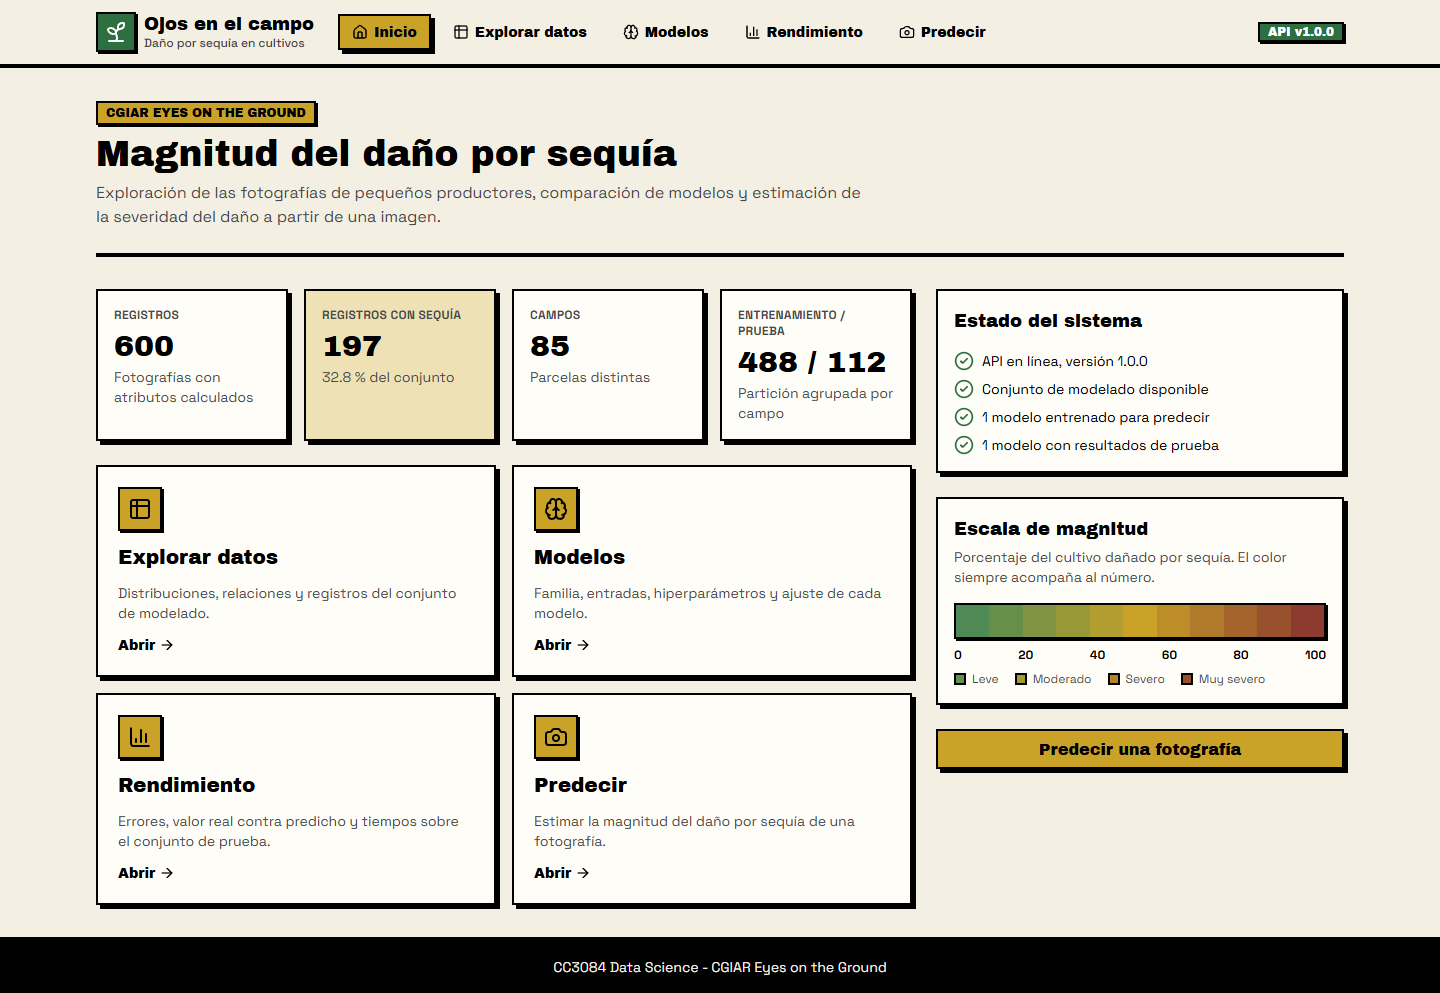
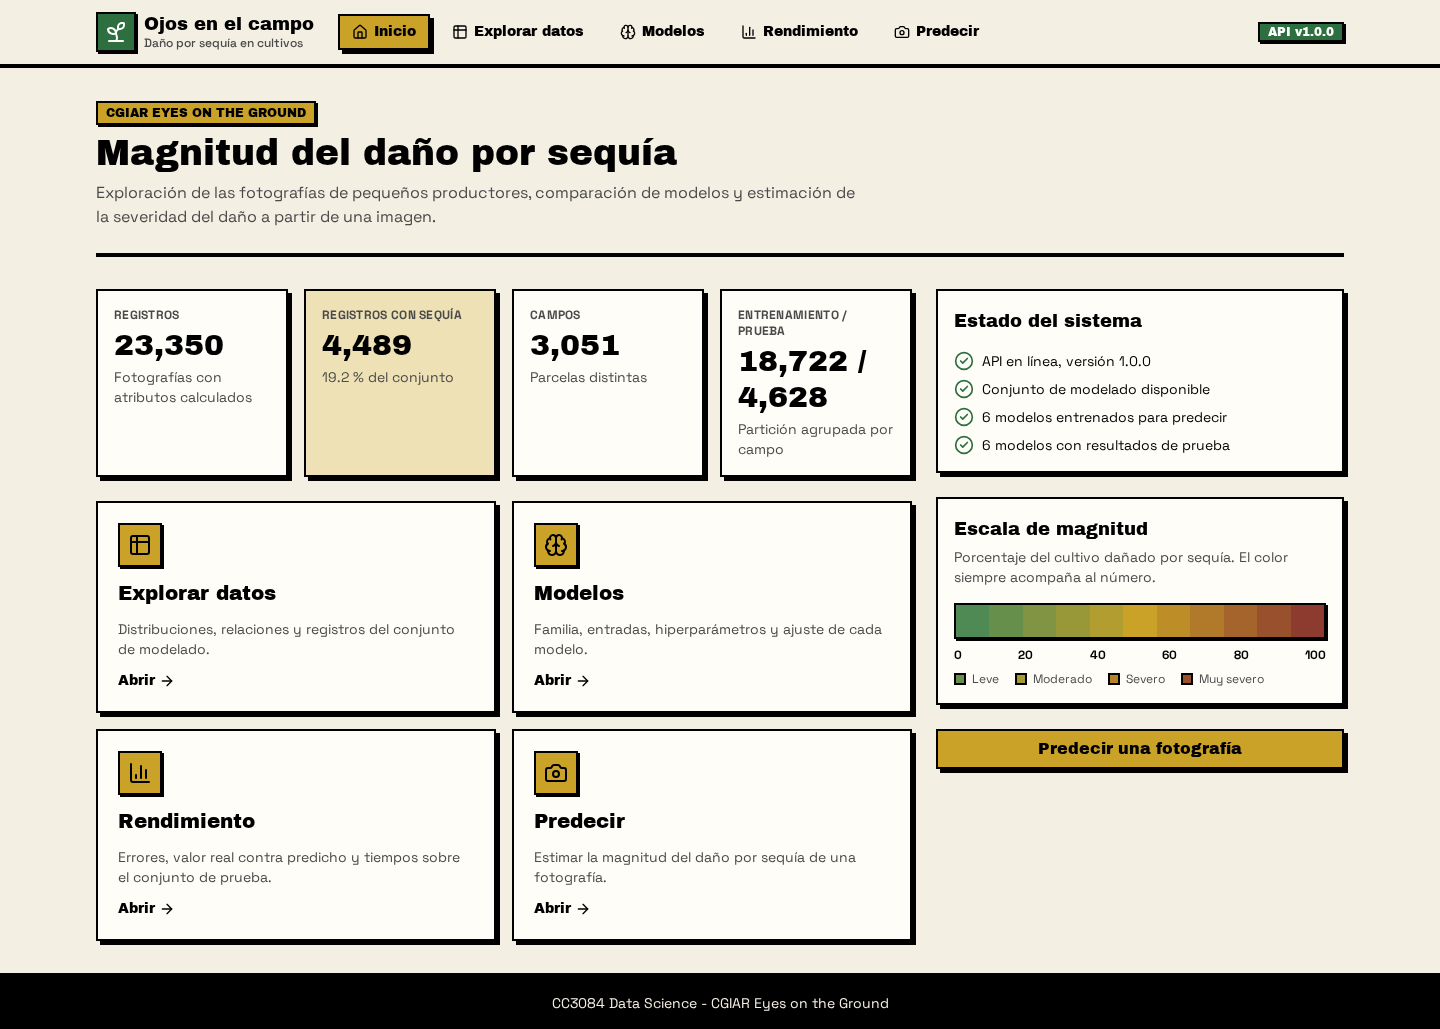
docs: actualiza capturas y seccion de la aplicacion con datos reales

Changed region(s): [[0.0, 0.0, 1.0, 0.9366], [0.375, 0.9678, 0.625, 0.999]]

diff --git a/informe/secciones/07_aplicacion.md b/informe/secciones/07_aplicacion.md
@@ -4,7 +4,7 @@ La aplicación web presenta los datos, los modelos y sus resultados de forma int
 
 La escala de magnitud del daño usa un degradado continuo de verde a terracota. El color nunca aparece solo: siempre acompaña al número o a una etiqueta, y la paleta se verificó para contraste WCAG AA y para distinguirse con los tipos más comunes de daltonismo. Cuando la API no responde o faltan datos o modelos, cada página muestra un aviso con la instrucción para resolverlo en lugar de quedar vacía.
 
-La aplicación tiene cinco páginas. La página de inicio resume el estado de la API, el tamaño del conjunto y la partición entre entrenamiento y prueba.
+La aplicación tiene cinco páginas y muestra los datos y los resultados reales del proyecto. La página de inicio resume el estado de la API, el tamaño del conjunto (23 350 fotografías de 3 051 campos, 4 489 con sequía) y la partición entre entrenamiento y prueba.
 
 ![Página de inicio con el estado del sistema y el resumen del conjunto.](figuras/app_inicio.png)
 
@@ -12,20 +12,20 @@ La página de exploración muestra la composición del conjunto, un histograma c
 
 ![Página de exploración de datos.](figuras/app_explorar.png)
 
-Al abrir un registro se muestra su fotografía junto con sus atributos y su diagnóstico.
+Al abrir un registro se muestra su fotografía junto con sus atributos y su diagnóstico. La figura muestra una fotografía de prueba con sequía de magnitud 100: el suelo queda expuesto y el exceso de verde es negativo.
 
 ![Detalle de un registro con su fotografía.](figuras/app_explorar_registro.png)
 
-La página de modelos describe cada algoritmo: su familia, las variables que usa, los hiperparámetros elegidos, el historial de la búsqueda de hiperparámetros, la curva de entrenamiento y la importancia de las variables cuando el modelo las reporta.
+La página de modelos describe cada algoritmo: su familia, las variables que usa, los hiperparámetros elegidos, el historial de la búsqueda de hiperparámetros, la curva de entrenamiento y la importancia de las variables cuando el modelo las reporta. La figura muestra las cuatro configuraciones evaluadas para DenseNet121, con la elegida resaltada en terracota.
 
 ![Página de modelos.](figuras/app_modelos.png)
 
-La página de rendimiento compara los modelos sobre el conjunto de prueba. Muestra MAE, RMSE, R² y tiempos de entrenamiento e inferencia, el gráfico de valor real contra predicho, la distribución del error y el error por temporada, etapa o magnitud. La evaluación puede limitarse a los registros con sequía o abarcar todo el conjunto de prueba.
+La página de rendimiento compara los seis modelos sobre el conjunto de prueba. Muestra MAE, RMSE, R² y tiempos de entrenamiento e inferencia, el gráfico de valor real contra predicho, la distribución del error y el error por temporada, etapa o magnitud. La evaluación puede limitarse a los registros con sequía o abarcar todo el conjunto de prueba, y cada modelo puede mostrarse u ocultarse desde la leyenda.
 
 ![Página de rendimiento de los modelos.](figuras/app_rendimiento.png)
 
-La página de predicción recibe una fotografía JPEG o PNG, un diagnóstico opcional y los modelos a consultar. Devuelve la magnitud estimada por cada modelo, redondeada a la decena más cercana, e indica cuándo se aplica la regla que fija la magnitud en 0 para diagnósticos distintos de sequía.
+La página de predicción recibe una fotografía JPEG o PNG, un diagnóstico opcional y los modelos a consultar. Devuelve la magnitud estimada por cada modelo, redondeada a la decena más cercana, e indica cuándo se aplica la regla que fija la magnitud en 0 para diagnósticos distintos de sequía. Antes de estimar, la API calcula los atributos de la fotografía y aplica a cada red su propia transformación, sin que el usuario intervenga. La figura usa una fotografía de prueba con magnitud real de 60, elegida para ilustrar el resultado: las tres redes y el Random Forest estiman entre 50 y 60, mientras que el predictor constante devuelve siempre 40.
 
 ![Página de predicción con el resultado de una fotografía.](figuras/app_predecir.png)
 
-Las capturas se tomaron sobre el backend de demostración, que genera un entorno sintético con el predictor constante como único modelo. Por eso las cifras de las figuras solo ilustran el funcionamiento de la aplicación y no corresponden a los resultados reales del proyecto.
+Las capturas se tomaron con los datos y los modelos reales del proyecto. El repositorio incluye el conjunto de modelado, los resultados de prueba de los seis modelos y los modelos tabulares, de modo que la exploración, la comparación y la predicción con los modelos tabulares funcionan al clonarlo. Los pesos de las redes y las fotografías ocupan demasiado para el repositorio y se obtienen de la carpeta compartida del equipo. Sin ellos, la aplicación marca las redes como «Sin artefacto» y avisa que la fotografía del registro no está disponible.
